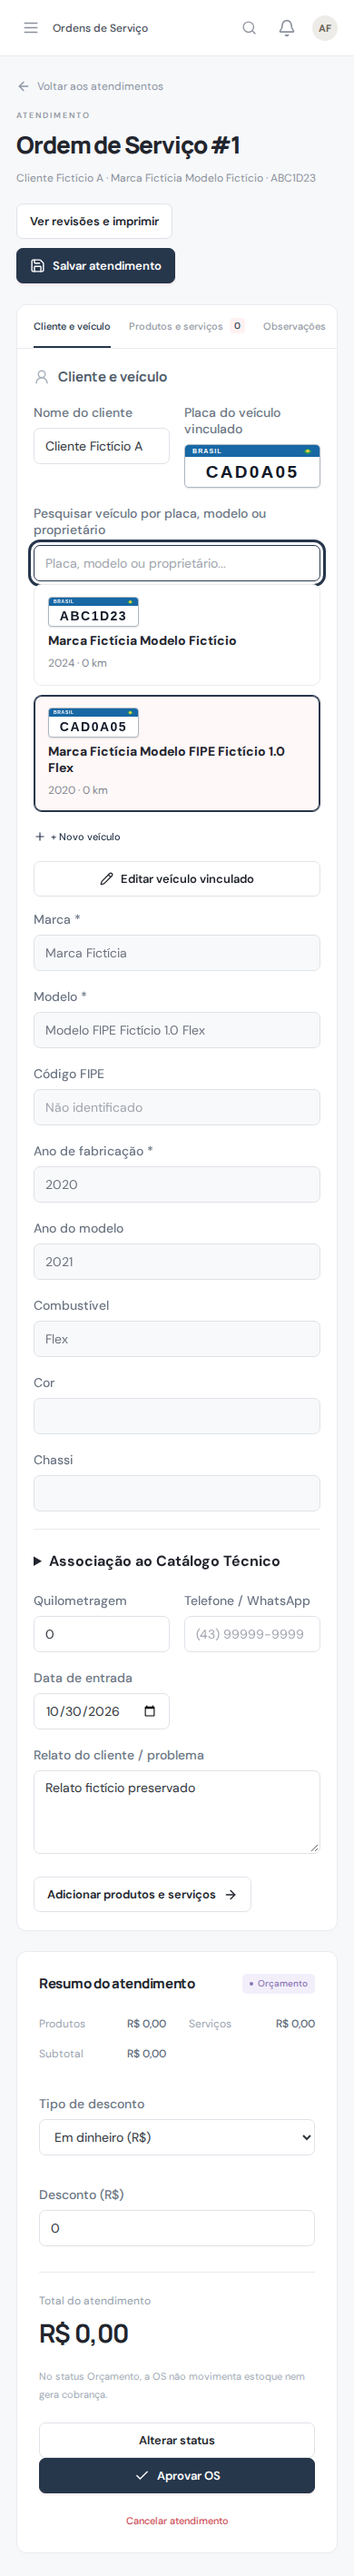
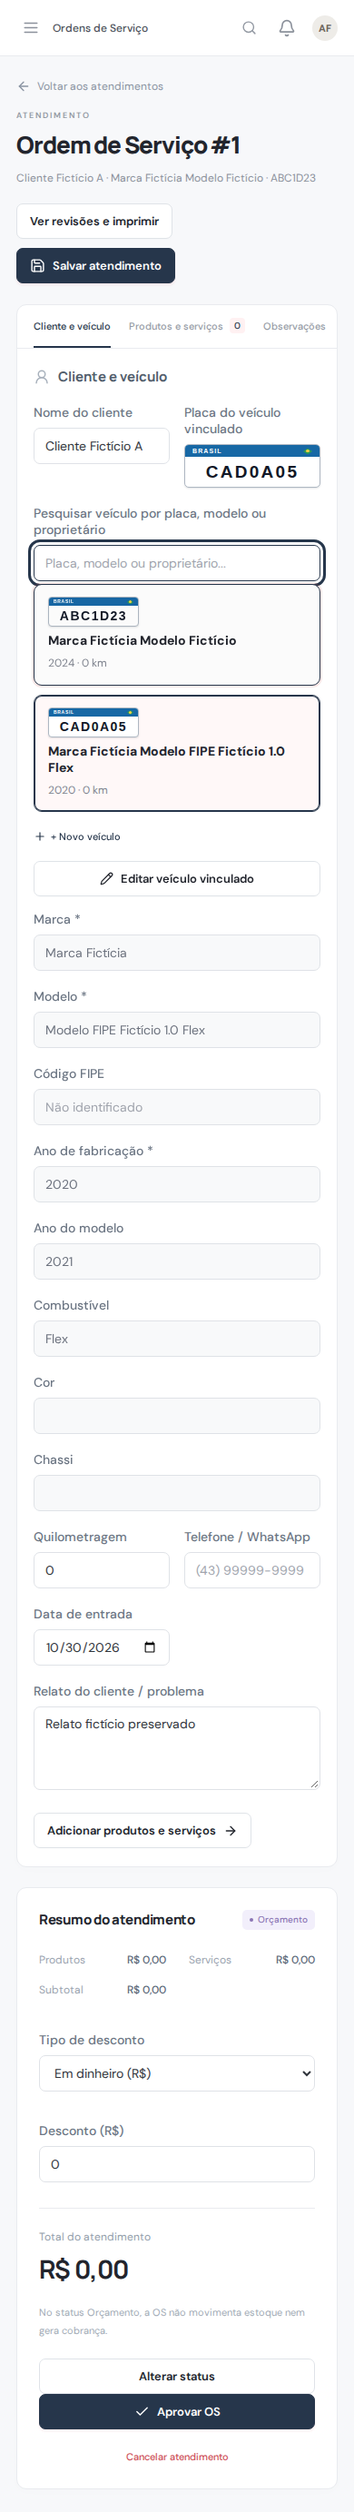
Unificar escolha de modelo do veículo na OS (#233)
* Unificar escolha do modelo no formulário da OS

* Validar seletor único de modelo na OS

* Preservar modelo opcional no orçamento sem placa

* Preservar modelo opcional no orçamento sem placa

* Atualizar capturas da identificação de veículo na OS

diff --git a/src/pages/OrderEditor.tsx b/src/pages/OrderEditor.tsx
@@ -27,10 +27,10 @@ import { useApp } from "../lib/context";
 import { send } from "../lib/api";
 import { saveOrderAndRefresh } from "../lib/orderSaveFlow";
 import { PlateField } from "../components/PlateField";
-import { fipeFields } from "../../shared/vehicleFipe";
+import { fipeFields, type FipeCandidate } from "../../shared/vehicleFipe";
 import { mergeVehicleLookup, lookupWouldReplace, vehicleDisplayModel } from "../../shared/vehicleIdentity";
 import { VehicleIdentityFields } from "../components/VehicleIdentityFields";
-import { VehicleTechnicalAssociation } from "../components/VehicleTechnicalAssociation";
+import { VehicleModelSelection } from "../components/VehicleModelSelection";
 import { RegisterModal } from "./Registers";
 import { money, today, statusLabel, type Entity } from "../lib/types";
 import {
@@ -113,6 +113,7 @@ function Editor({ order, quote }: { order?: Entity; quote: boolean }) {
   );
   const initialVehicle = data.vehicles.find((v) => v.id === order?.vehicle_id);
   const [lookedUp, setLookedUp] = useState<Record<string, any>>(initialVehicle || {});
+  const [plateCandidates, setPlateCandidates] = useState<FipeCandidate[]>([]);
   const [tab, setTab] = useState(initialCapture && order ? "items" : "details");
   const [itemKind, setItemKind] = useState("product");
   const [serviceModelId,setServiceModelId]=useState(data.vehicles.find(v=>v.id===order?.vehicle_id)?.service_model_id||'');
@@ -500,9 +501,11 @@ function Editor({ order, quote }: { order?: Entity; quote: boolean }) {
                       </Field>
                     ) : (
                     <PlateField
+                      showFipeSelection={false}
                       value={lookupPlate}
                       disabled={!!locked}
                       onChange={(plate) => {
+                        setPlateCandidates([]);
                         setLookupPlate(plate);
                         setLookedUp((current) => ({ ...current, plate }));
                         setError("");
@@ -515,6 +518,7 @@ function Editor({ order, quote }: { order?: Entity; quote: boolean }) {
                         }
                         setError("");
                         if (result.source === "local" && result.vehicle) {
+                          setPlateCandidates([]);
                           setLookedUp(result.vehicle);
                           setServiceModelId(String(result.vehicle.service_model_id || ""));
                           const owner = data.customers.find((c) => c.id === result.vehicle!.customer_id);
@@ -535,6 +539,7 @@ function Editor({ order, quote }: { order?: Entity; quote: boolean }) {
                           setCustomerPhone(owner.phone || "");
                         } else {
                           if (result.vehicle && lookupWouldReplace(lookedUp, result.vehicle) && !window.confirm("A consulta retornou dados diferentes dos já preenchidos. Aplicar os novos dados?")) return;
+                          setPlateCandidates(result.fipe_candidates || []);
                           const description = [result.vehicle?.brand, vehicleDisplayModel(result.vehicle)].filter(Boolean).join(" ");
                           setLookedUp(mergeVehicleLookup(lookedUp, result.vehicle));
                           setForm((f) => ({
@@ -597,8 +602,22 @@ function Editor({ order, quote }: { order?: Entity; quote: boolean }) {
                         Editar veículo vinculado
                       </button>
                     )}
-                    <VehicleIdentityFields vehicle={lookedUp} onChange={setLookedUp} disabled={!!form.vehicle_id} required={form.status !== "quote" || !!lookupPlate} />
-                    <VehicleTechnicalAssociation vehicle={lookedUp} modelId={serviceModelId} onModelChange={(id) => { setServiceModelId(id); setServiceModelTouched(true); setLookedUp((current) => ({ ...current, service_model_id: id || null, service_link_mode: id ? "manual" : "none" })); }} />
+                    <VehicleIdentityFields
+                      vehicle={vehicle || lookedUp}
+                      onChange={setLookedUp}
+                      disabled={!!form.vehicle_id || !!locked}
+                      required={form.status !== "quote" || !!lookupPlate}
+                      modelPicker={!form.vehicle_id && !locked ? (
+                        <VehicleModelSelection vehicle={lookedUp} required={form.status !== "quote" || !!lookupPlate} candidates={plateCandidates} onChange={(next) => {
+                          setLookedUp(next);
+                          handleServiceModelChange(String(next.service_model_id || ""));
+                          setForm((current) => ({
+                            ...current,
+                            guest_vehicle: [next.brand, vehicleDisplayModel(next)].filter(Boolean).join(" "),
+                          }));
+                        }} />
+                      ) : undefined}
+                    />
                     <Field label="Quilometragem">
                       <NumericInput type="number" min="0" value={form.km} onChange={(e) => set("km", Number(e.target.value))} />
                     </Field>

diff --git a/src/components/VehicleModelSelection.tsx b/src/components/VehicleModelSelection.tsx
@@ -7,10 +7,11 @@ type Option = { id: string; name: string; brand: string; fipe_code: string };
 type Choice = { key: string; name: string; detail: string; candidate?: FipeCandidate; option?: Option };
 const normalize = (value: string) => value.normalize("NFD").replace(/[\u0300-\u036f]/g, "").toLowerCase();
 
-export function VehicleModelSelection({ vehicle, onChange, candidates = [] }: {
+export function VehicleModelSelection({ vehicle, onChange, candidates = [], required = true }: {
   vehicle: Record<string, any>;
   onChange: (next: Record<string, any>) => void;
   candidates?: FipeCandidate[];
+  required?: boolean;
 }) {
   const [options, setOptions] = useState<Option[]>([]);
   const [message, setMessage] = useState("");
@@ -110,7 +111,7 @@ export function VehicleModelSelection({ vehicle, onChange, candidates = [] }: {
     }
   };
   return <section ref={rootRef} className="vehicle-technical-association full">
-    <label className="field"><span>Modelo *</span><input required type="search" role="combobox" aria-expanded={open} aria-controls={listId} aria-autocomplete="list" value={search} onFocus={() => { setOpen(true); setActiveIndex(0); }} onChange={(event) => { setSearchTouched(true); setSearch(event.target.value); setOpen(true); setActiveIndex(0); }} onKeyDown={keyDown} placeholder="Digite ou escolha o modelo do veículo..." maxLength={150} /></label>
+    <label className="field"><span>{required ? "Modelo *" : "Modelo"}</span><input required={required} type="search" role="combobox" aria-expanded={open} aria-controls={listId} aria-autocomplete="list" value={search} onFocus={() => { setOpen(true); setActiveIndex(0); }} onChange={(event) => { setSearchTouched(true); setSearch(event.target.value); setOpen(true); setActiveIndex(0); }} onKeyDown={keyDown} placeholder="Digite ou escolha o modelo do veículo..." maxLength={150} /></label>
     {open && <div className="catalog-dropdown" style={{ position: "relative", inset: "auto", width: "100%", marginTop: 4, zIndex: 2 }}>
       <div className="catalog-dropdown-list" style={{ maxHeight: 240 }}>
         <div id={listId} role="listbox" aria-label="Modelos do veículo">

diff --git a/docs/mapeamento-visual/CHECKLIST.md b/docs/mapeamento-visual/CHECKLIST.md
@@ -116,10 +116,10 @@ Estados: capturada, pendente, bloqueada e não aplicável.
 | cad005-review-mobile | Veículos | CAD-005 — Revisão de veículo (mobile) — Formulário real com dados fictícios; modelo em lista suspensa que fecha após a escolha. | [`capturas/04-veiculos/cad005-review-mobile.png`](./capturas/04-veiculos/cad005-review-mobile.png) | capturada | 2026-11-17 | 27c7fb615ef31f460c7b9d12778dfd91fecaba01 | — |
 | cad005-checklist-desktop | Checklist | CAD-005 — Veículo no checklist (desktop) — Formulário real com dados fictícios; modelo em lista suspensa que fecha após a escolha. | [`capturas/05-checklist/cad005-checklist-desktop.png`](./capturas/05-checklist/cad005-checklist-desktop.png) | capturada | 2026-11-17 | 27c7fb615ef31f460c7b9d12778dfd91fecaba01 | — |
 | cad005-checklist-mobile | Checklist | CAD-005 — Veículo no checklist (mobile) — Formulário real com dados fictícios; modelo em lista suspensa que fecha após a escolha. | [`capturas/05-checklist/cad005-checklist-mobile.png`](./capturas/05-checklist/cad005-checklist-mobile.png) | capturada | 2026-11-17 | 27c7fb615ef31f460c7b9d12778dfd91fecaba01 | — |
-| cad005-order-desktop | Orçamentos | CAD-005 — Veículo na abertura do atendimento (desktop) — Formulário real com dados fictícios; identificação FIPE independente da associação técnica. | [`capturas/06-orcamentos/cad005-order-desktop.png`](./capturas/06-orcamentos/cad005-order-desktop.png) | capturada | 2026-11-14 | 3f53da28177e3d9d5cca9811e7a403e008863a9a | — |
-| cad005-order-mobile | Orçamentos | CAD-005 — Veículo na abertura do atendimento (mobile) — Formulário real com dados fictícios; identificação FIPE independente da associação técnica. | [`capturas/06-orcamentos/cad005-order-mobile.png`](./capturas/06-orcamentos/cad005-order-mobile.png) | capturada | 2026-11-14 | 3f53da28177e3d9d5cca9811e7a403e008863a9a | — |
-| cad005-switch-desktop | Ordens de serviço | CAD-005 — Troca de veículo no atendimento (desktop) — Formulário real com dados fictícios; identificação FIPE independente da associação técnica. | [`capturas/07-ordens-servico/cad005-switch-desktop.png`](./capturas/07-ordens-servico/cad005-switch-desktop.png) | capturada | 2026-11-14 | 3f53da28177e3d9d5cca9811e7a403e008863a9a | — |
-| cad005-switch-mobile | Ordens de serviço | CAD-005 — Troca de veículo no atendimento (mobile) — Formulário real com dados fictícios; identificação FIPE independente da associação técnica. | [`capturas/07-ordens-servico/cad005-switch-mobile.png`](./capturas/07-ordens-servico/cad005-switch-mobile.png) | capturada | 2026-11-14 | 3f53da28177e3d9d5cca9811e7a403e008863a9a | — |
+| cad005-order-desktop | Orçamentos | CAD-005 — Veículo na abertura do atendimento (desktop) — Formulário real com dados fictícios e identificação pelo campo Modelo. | [`capturas/06-orcamentos/cad005-order-desktop.png`](./capturas/06-orcamentos/cad005-order-desktop.png) | capturada | 2026-11-21 | 61b620b82831eaf2708ff41f3fe7029c98a37584 | — |
+| cad005-order-mobile | Orçamentos | CAD-005 — Veículo na abertura do atendimento (mobile) — Formulário real com dados fictícios e identificação pelo campo Modelo. | [`capturas/06-orcamentos/cad005-order-mobile.png`](./capturas/06-orcamentos/cad005-order-mobile.png) | capturada | 2026-11-21 | 61b620b82831eaf2708ff41f3fe7029c98a37584 | — |
+| cad005-switch-desktop | Ordens de serviço | CAD-005 — Troca de veículo no atendimento (desktop) — Formulário real com dados fictícios e identificação pelo campo Modelo. | [`capturas/07-ordens-servico/cad005-switch-desktop.png`](./capturas/07-ordens-servico/cad005-switch-desktop.png) | capturada | 2026-11-21 | 61b620b82831eaf2708ff41f3fe7029c98a37584 | — |
+| cad005-switch-mobile | Ordens de serviço | CAD-005 — Troca de veículo no atendimento (mobile) — Formulário real com dados fictícios e identificação pelo campo Modelo. | [`capturas/07-ordens-servico/cad005-switch-mobile.png`](./capturas/07-ordens-servico/cad005-switch-mobile.png) | capturada | 2026-11-21 | 61b620b82831eaf2708ff41f3fe7029c98a37584 | — |
 | cad005-register-footer-mobile | Veículos | CAD-005 — Novo veículo (mobile) — rodapé — Formulário real com dados fictícios; modelo em lista suspensa que fecha após a escolha. | [`capturas/04-veiculos/cad005-register-footer-mobile.png`](./capturas/04-veiculos/cad005-register-footer-mobile.png) | capturada | 2026-11-17 | 27c7fb615ef31f460c7b9d12778dfd91fecaba01 | — |
 | cad005-review-footer-mobile | Veículos | CAD-005 — Revisão de veículo (mobile) — rodapé — Formulário real com dados fictícios; modelo em lista suspensa que fecha após a escolha. | [`capturas/04-veiculos/cad005-review-footer-mobile.png`](./capturas/04-veiculos/cad005-review-footer-mobile.png) | capturada | 2026-11-17 | 27c7fb615ef31f460c7b9d12778dfd91fecaba01 | — |
 | cad005-review-catalog-desktop | Veículos | CAD-005 — Escolha de modelo com FIPE divergente (desktop) — Formulário real com dados fictícios; modelo em lista suspensa que fecha após a escolha. | [`capturas/04-veiculos/cad005-review-catalog-desktop.png`](./capturas/04-veiculos/cad005-review-catalog-desktop.png) | capturada | 2026-11-17 | 27c7fb615ef31f460c7b9d12778dfd91fecaba01 | — |

diff --git a/docs/mapeamento-visual/INDEX.md b/docs/mapeamento-visual/INDEX.md
@@ -300,19 +300,19 @@ Estado: capturada · mobile · captura 2026-11-14 · commit de origem: 3f53da281
 
 ### CAD-005 — Veículo na abertura do atendimento (desktop)
 
-Formulário real com dados fictícios; identificação FIPE independente da associação técnica.
+Formulário real com dados fictícios e identificação pelo campo Modelo.
 
 [![CAD-005 — Veículo na abertura do atendimento (desktop)](./capturas/06-orcamentos/cad005-order-desktop.png)](./capturas/06-orcamentos/cad005-order-desktop.png)
 
-Estado: capturada · desktop · captura 2026-11-14 · commit de origem: 3f53da28177e3d9d5cca9811e7a403e008863a9a · [arquivo completo](./capturas/06-orcamentos/cad005-order-desktop.png)
+Estado: capturada · desktop · captura 2026-11-21 · commit de origem: 61b620b82831eaf2708ff41f3fe7029c98a37584 · [arquivo completo](./capturas/06-orcamentos/cad005-order-desktop.png)
 
 ### CAD-005 — Veículo na abertura do atendimento (mobile)
 
-Formulário real com dados fictícios; identificação FIPE independente da associação técnica.
+Formulário real com dados fictícios e identificação pelo campo Modelo.
 
 [![CAD-005 — Veículo na abertura do atendimento (mobile)](./capturas/06-orcamentos/cad005-order-mobile.png)](./capturas/06-orcamentos/cad005-order-mobile.png)
 
-Estado: capturada · mobile · captura 2026-11-14 · commit de origem: 3f53da28177e3d9d5cca9811e7a403e008863a9a · [arquivo completo](./capturas/06-orcamentos/cad005-order-mobile.png)
+Estado: capturada · mobile · captura 2026-11-21 · commit de origem: 61b620b82831eaf2708ff41f3fe7029c98a37584 · [arquivo completo](./capturas/06-orcamentos/cad005-order-mobile.png)
 
 ## 07 — Ordens de serviço
 
@@ -368,19 +368,19 @@ Estado: capturada · mobile · captura 2026-11-14 · commit de origem: 3f53da281
 
 ### CAD-005 — Troca de veículo no atendimento (desktop)
 
-Formulário real com dados fictícios; identificação FIPE independente da associação técnica.
+Formulário real com dados fictícios e identificação pelo campo Modelo.
 
 [![CAD-005 — Troca de veículo no atendimento (desktop)](./capturas/07-ordens-servico/cad005-switch-desktop.png)](./capturas/07-ordens-servico/cad005-switch-desktop.png)
 
-Estado: capturada · desktop · captura 2026-11-14 · commit de origem: 3f53da28177e3d9d5cca9811e7a403e008863a9a · [arquivo completo](./capturas/07-ordens-servico/cad005-switch-desktop.png)
+Estado: capturada · desktop · captura 2026-11-21 · commit de origem: 61b620b82831eaf2708ff41f3fe7029c98a37584 · [arquivo completo](./capturas/07-ordens-servico/cad005-switch-desktop.png)
 
 ### CAD-005 — Troca de veículo no atendimento (mobile)
 
-Formulário real com dados fictícios; identificação FIPE independente da associação técnica.
+Formulário real com dados fictícios e identificação pelo campo Modelo.
 
 [![CAD-005 — Troca de veículo no atendimento (mobile)](./capturas/07-ordens-servico/cad005-switch-mobile.png)](./capturas/07-ordens-servico/cad005-switch-mobile.png)
 
-Estado: capturada · mobile · captura 2026-11-14 · commit de origem: 3f53da28177e3d9d5cca9811e7a403e008863a9a · [arquivo completo](./capturas/07-ordens-servico/cad005-switch-mobile.png)
+Estado: capturada · mobile · captura 2026-11-21 · commit de origem: 61b620b82831eaf2708ff41f3fe7029c98a37584 · [arquivo completo](./capturas/07-ordens-servico/cad005-switch-mobile.png)
 
 ### OS atribuída — perfil Mecânico
 
